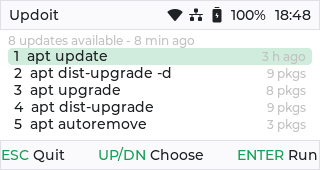
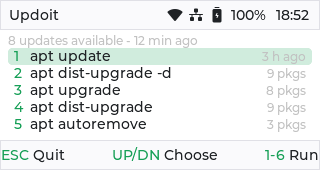
menu: hotkey styling, letter arrows; no whitespace in .deb file name
- Menu row numbers use the accent colour like the key names in the bottom bar,
  and the bar now reads "1-6 Run".
- W/S (and A/D on the menu) work as arrow keys on the menu, confirm and result
  pages, next to ; . , / .
- The .deb is named after the Debian package name instead of the display
  name: dist/updoit-for-cardputer-zero_<ver>_<rev>_arm64.deb. The launcher
  title keeps its spaces. deploy.sh and docs follow.

Claude-Session: https://claude.ai/code/session_01Xo4aVjoxHArJZSZCeMoR8x

diff --git a/src/view/screens/menu_screen.cpp b/src/view/screens/menu_screen.cpp
@@ -61,10 +61,16 @@ void MenuScreen::build_content(lv_obj_t* content) {
         lv_obj_set_style_bg_opa(row, LV_OPA_20, LV_STATE_CHECKED);
         style::accent(row, dark, style::Accent::Part::Bg, style::Accent::Tone::Primary);
 
-        char text[48];
-        lv_snprintf(text, sizeof(text), "%d  %s", i + 1, viewmodel::BaseViewModel::menu_label(i));
-        auto* name = style::label(row, dark, style::font(assets(), 14, true), text);
-        lv_obj_align(name, LV_ALIGN_LEFT_MID, 0, 0);
+        // Hotkey number in the accent colour, like the key names in the bottom bar.
+        char number[4];
+        lv_snprintf(number, sizeof(number), "%d", i + 1);
+        auto* key = style::label(row, dark, style::font(assets(), 14, true), number);
+        style::accent(key, dark, style::Accent::Part::Text, style::Accent::Tone::Primary);
+        lv_obj_align(key, LV_ALIGN_LEFT_MID, 0, 0);
+
+        auto* name = style::label(row, dark, style::font(assets(), 14, true),
+                                  viewmodel::BaseViewModel::menu_label(i));
+        lv_obj_align(name, LV_ALIGN_LEFT_MID, 16, 0);
 
         auto* hint = style::label(row, dark, style::font(assets(), 12));
         reactive::bind_label_text(hint, view_model().menu_hint_subject(i));
@@ -83,12 +89,20 @@ bool MenuScreen::handle_key(uint32_t key) {
         case LV_KEY_LEFT:
         case ';': // Cardputer arrow keys without fn
         case ',':
+        case 'w': // letters work as arrows too
+        case 'W':
+        case 'a':
+        case 'A':
             vm.menu_move(-1);
             return true;
         case LV_KEY_DOWN:
         case LV_KEY_RIGHT:
         case '.':
         case '/':
+        case 's':
+        case 'S':
+        case 'd':
+        case 'D':
             vm.menu_move(1);
             return true;
         case LV_KEY_ENTER:

diff --git a/src/view/widgets/navbar.cpp b/src/view/widgets/navbar.cpp
@@ -25,7 +25,7 @@ Hints hints_for(model::AppPage page, bool can_cancel) {
         case model::AppPage::Password:
             return {{{"ESC", "Quit"}, {"ENTER", "Unlock"}, {nullptr, nullptr}}};
         case model::AppPage::Menu:
-            return {{{"ESC", "Quit"}, {"UP/DN", "Choose"}, {"ENTER", "Run"}}};
+            return {{{"ESC", "Quit"}, {"UP/DN", "Choose"}, {"1-6", "Run"}}};
         case model::AppPage::Confirm:
             return {{{"ESC", "Back"}, {"UP/DN", "Scroll"}, {"ENTER", "Start"}}};
         case model::AppPage::Progress:

diff --git a/src/view/screens/result_screen.cpp b/src/view/screens/result_screen.cpp
@@ -61,10 +61,14 @@ bool ResultScreen::handle_key(uint32_t key) {
     switch (key) {
         case LV_KEY_UP:
         case ';':
+        case 'w':
+        case 'W':
             lv_obj_scroll_by_bounded(scroller_, 0, 30, LV_ANIM_ON);
             return true;
         case LV_KEY_DOWN:
         case '.':
+        case 's':
+        case 'S':
             lv_obj_scroll_by_bounded(scroller_, 0, -30, LV_ANIM_ON);
             return true;
         case LV_KEY_ENTER:

diff --git a/src/view/screens/confirm_screen.cpp b/src/view/screens/confirm_screen.cpp
@@ -58,10 +58,14 @@ bool ConfirmScreen::handle_key(uint32_t key) {
     switch (key) {
         case LV_KEY_UP:
         case ';':
+        case 'w':
+        case 'W':
             lv_obj_scroll_by_bounded(list_, 0, 30, LV_ANIM_ON);
             return true;
         case LV_KEY_DOWN:
         case '.':
+        case 's':
+        case 'S':
             lv_obj_scroll_by_bounded(list_, 0, -30, LV_ANIM_ON);
             return true;
         case LV_KEY_ENTER:

diff --git a/README.md b/README.md
@@ -36,7 +36,7 @@ guard, reboot prompt, network check, auto-upgrade, pipelined download+install).
 | Page | Keys |
 | --- | --- |
 | Password | type, `Enter` unlock, `Backspace` delete, `Esc` quit |
-| Menu | `Up`/`Down` choose (the list scrolls), `1`-`6` run directly, `Enter` run, `Esc` quit |
+| Menu | `Up`/`Down` or `W`/`S` choose (the list scrolls), `1`-`6` run directly, `Enter` run, `Esc` quit |
 | Confirm | `Up`/`Down` scroll, `Enter` download + install, `Esc` back |
 | Progress | `Esc` cancel (checking and downloading only; never mid-install) |
 | Result | `Up`/`Down` scroll, `Enter`/`Esc` back to menu |
@@ -407,7 +407,7 @@ By default, the debian package is copied to '$HOME' folder, normally it's under 
 On your device, install the copied package with `apt` and replace the package file name with the one you copied:
 
 ```shell
-sudo apt install --no-install-recommends ./Updoit For Cardputer Zero_0.2.1_rev1_arm64.deb
+sudo apt install --no-install-recommends ./updoit-for-cardputer-zero_0.2.1_rev1_arm64.deb
 ```
 
 
@@ -456,13 +456,13 @@ cmake --preset darwin-arm64 -DAPP_ASSETS_ROOT=/path/to/assets
 Debian packages are produced with CPack and written to `dist/`. The package file name follows:
 
 ```text
-<AppName>_<Version>_<Revision>_arm64.deb
+<package-name>_<Version>_<Revision>_arm64.deb
 ```
 
 Default example:
 
 ```text
-dist/Updoit For Cardputer Zero_0.2.1_rev1_arm64.deb
+dist/updoit-for-cardputer-zero_0.2.1_rev1_arm64.deb
 ```
 
 Package layout:

diff --git a/.agents/skills/cardputerzero-package-release/references/release-contract.md b/.agents/skills/cardputerzero-package-release/references/release-contract.md
@@ -8,7 +8,7 @@ Use repository presets rather than custom build directories:
   `win32-mingw64`;
 - device presets: `cp0-native` and `cp0-cross`;
 - release workflow: `cp0-cross-package`;
-- Debian package output: `dist/<APP_DISPLAY_NAME>_<version>_<revision>_arm64.deb`.
+- Debian package output: `dist/<package_name>_<version>_<revision>_arm64.deb`.
 
 `cmake/cm0-package.cmake` is the installation/package contract. `app-builder.json` is the final
 upload/store contract. Neither replaces the other.
